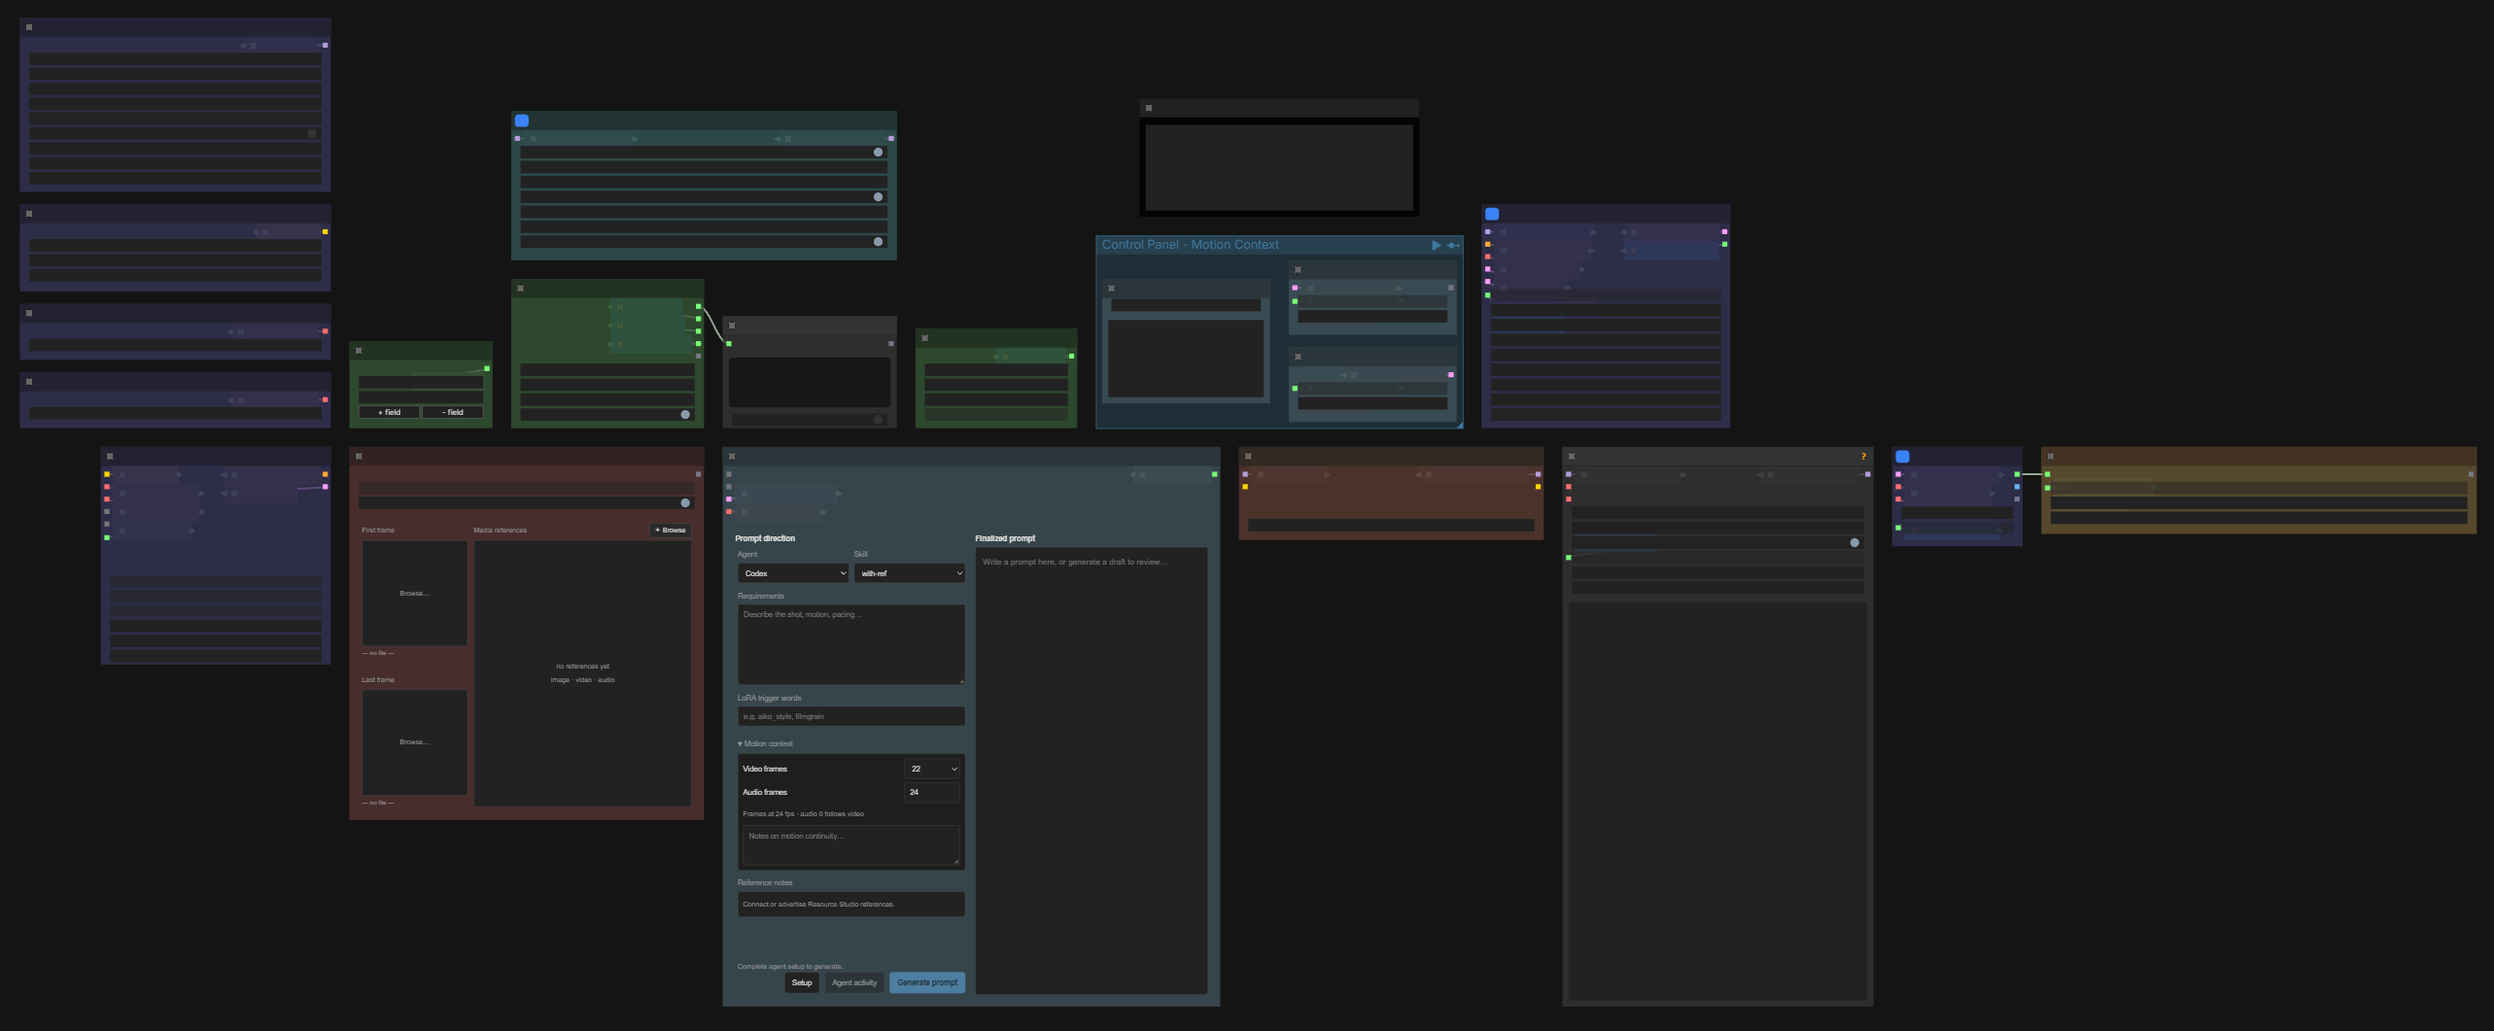
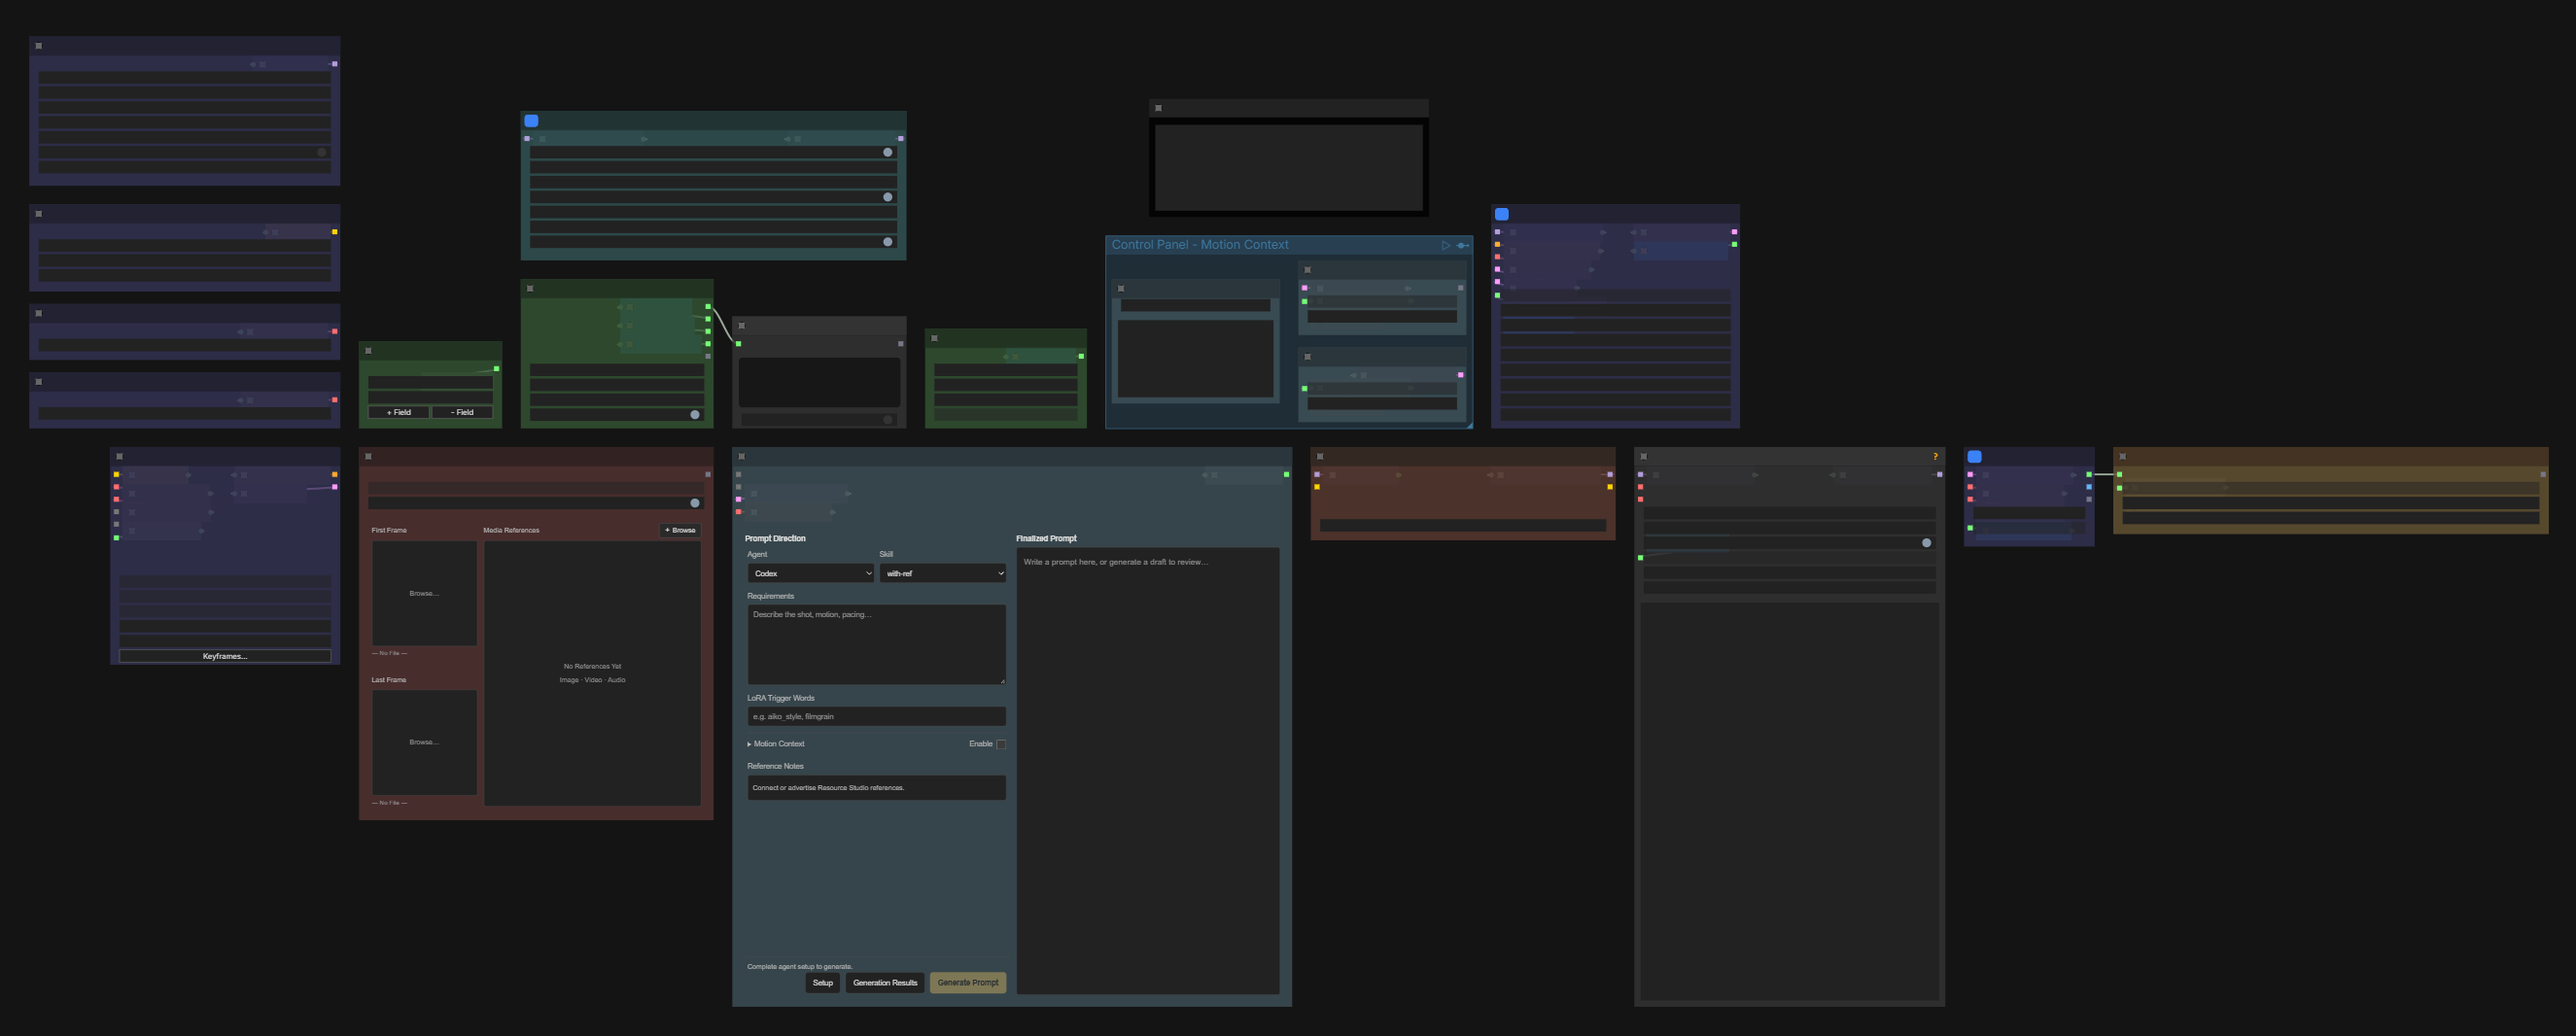
docs(minimax-h3): refresh example workflow for model loader
- Replace the external hybrid loader with the Arisu model loader.
- Update the preview and fold the example into the unreleased notes.

diff --git a/CHANGELOG.md b/CHANGELOG.md
@@ -9,7 +9,7 @@ and this project adheres to [Semantic Versioning](https://semver.org/spec/v2.0.0
 
 ### Added
 
-- Add MiniMax H3 Model Loader with `native` loading and experimental `hybrid` AdaLN replacement over an inclusive block range, an independent final-AdaLN toggle, source-checked native reload support, mode-first controls, and visible disabled `hybrid` settings in `native` mode; preserve model selections and node size across mode changes and workflow restoration.
+- Add MiniMax H3 Model Loader with `native` loading and experimental `hybrid` AdaLN replacement over an inclusive block range, an independent final-AdaLN toggle, source-checked native reload support, mode-first controls, and visible disabled `hybrid` settings in `native` mode; preserve model selections and node size across mode changes and workflow restoration, and update the example workflow to use the new loader.
 
 ### Changed
 
